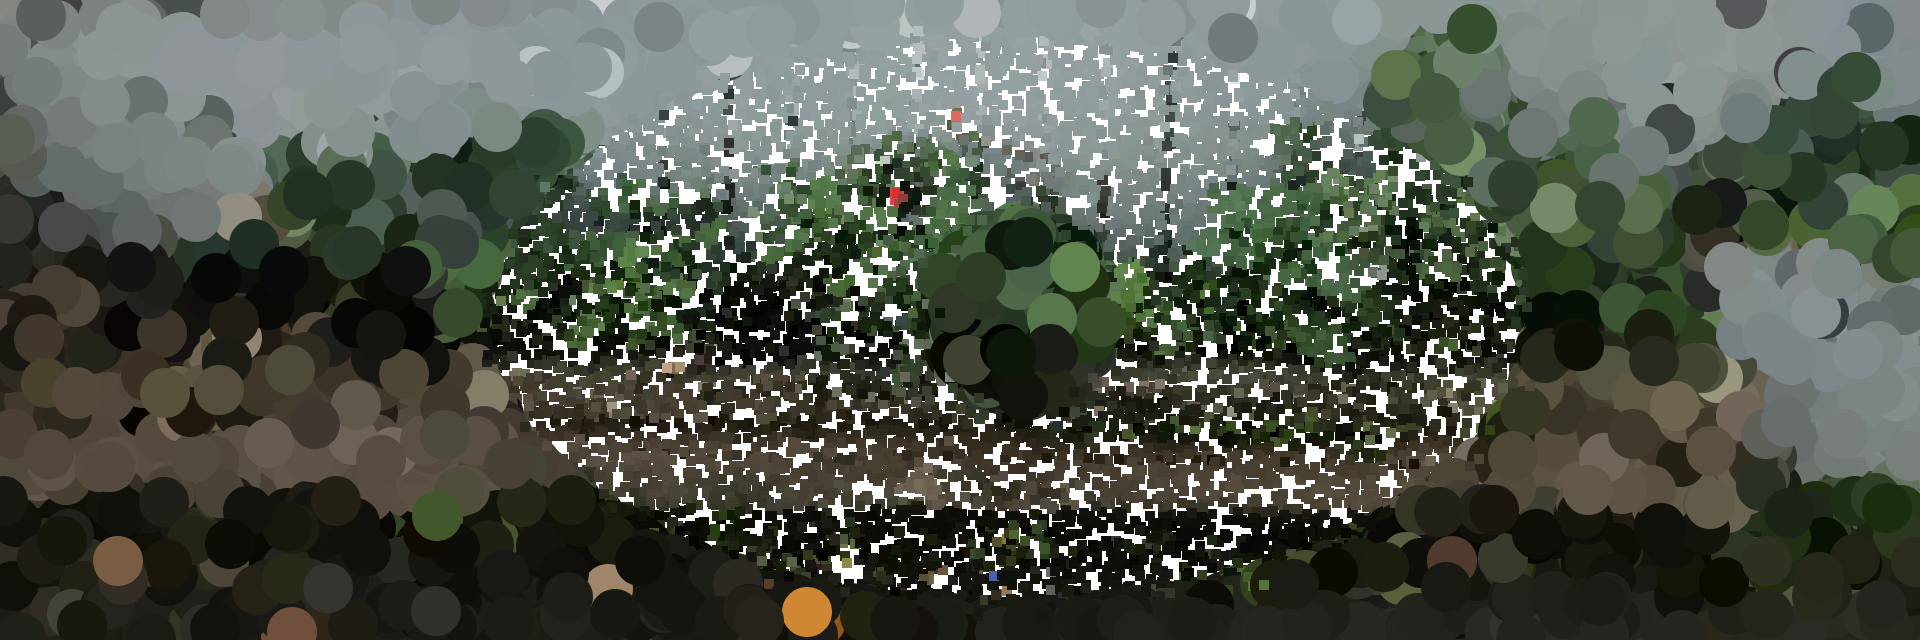
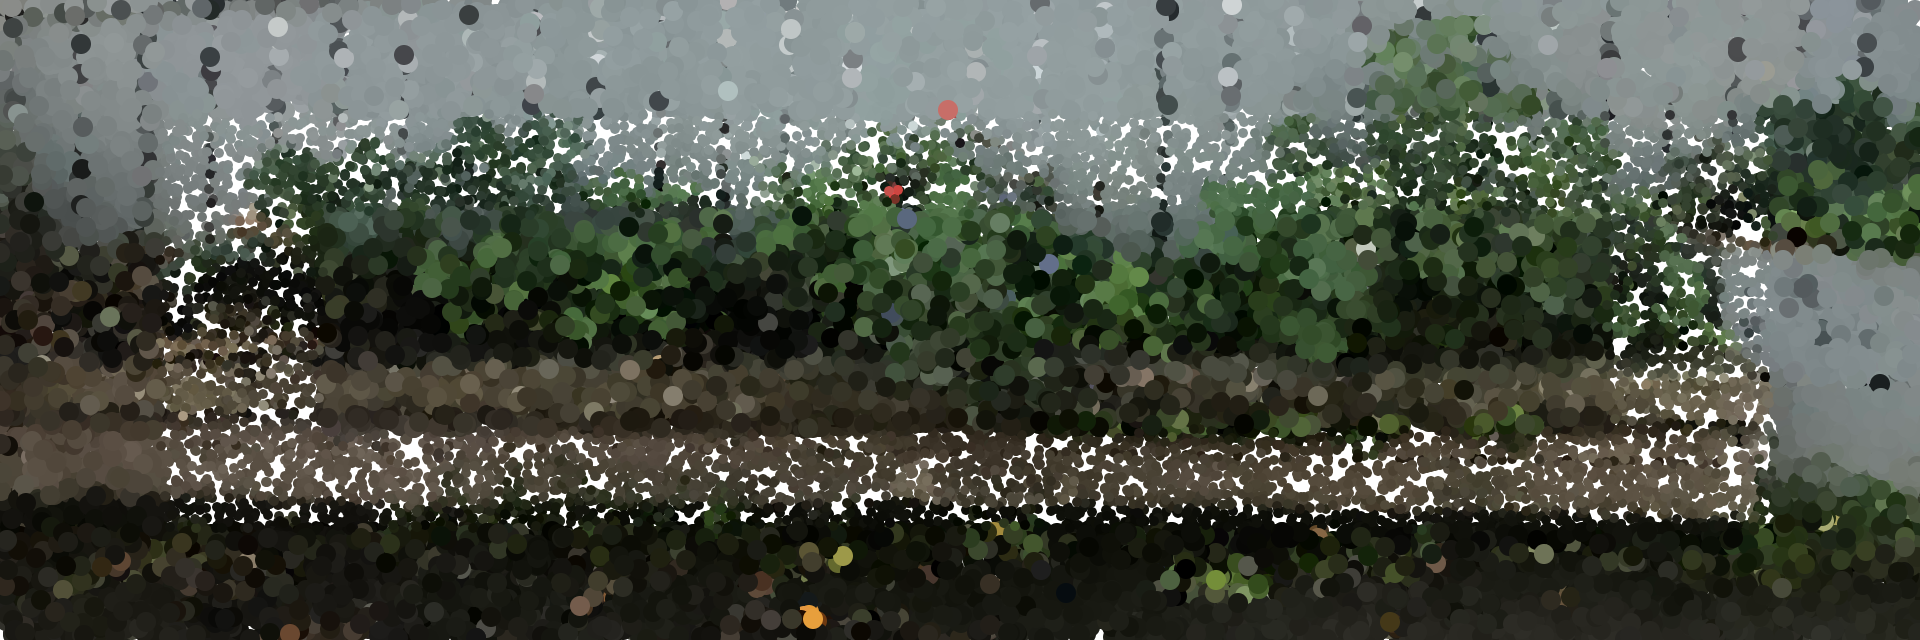
mask 3

diff --git a/sketch.js b/sketch.js
@@ -3,7 +3,7 @@ let maskImg=null;
 let renderCounter=0;
 
 // change these three lines as appropiate
-let sourceFile = "input_2.jpg";
+let sourceFile = "input_3.jpg";
 let maskFile   = "mask_2.png";
 let outputFile = "output_1.png";
 
@@ -32,24 +32,24 @@ function draw () {
     fill(pix);
     stroke(pix);
 
-    let pointSize = 50;
-    let dice = random(1,6);
-    if (dice > 5)(
-    line(x, y, x+pointSize, y)
-    )
-
-    else (
-    line(x,y,x,y+pointSize)
-    )
-    // noStroke();
-    // if(mask[0] > 128) {
-    //   let pointSize = 35;
-    //   rect(x, y, pointSize, pointSize);
-    // }
-    // else {
-    //   let pointSize = 15;
-    //   ellipse(x, y, pointSize, pointSize);
-    //}
+    // let pointSize = 50;
+    // let dice = random(1,6);
+    // if (dice > 5)(
+    // line(x, y, x+pointSize, y)
+    // )
+    //
+    // else (
+    // line(x,y,x,y+pointSize)
+    // )
+    noStroke();
+    if(mask[0] > 100) {
+      let pointSize = 20;
+      ellipse(x, y, pointSize, pointSize);
+    }
+    else {
+      let pointSize = 10;
+      ellipse(x, y, pointSize, pointSize);
+    }
   }
   renderCounter = renderCounter + 1;
   if(renderCounter > 10) {

diff --git a/README.md b/README.md
@@ -2,4 +2,4 @@
 
 The images above are photos of Wellington CBD algorithmically processed with a lightly modified version of the [p5.js Pointillism example](https://p5js.org/examples/image-pointillism.html). The masks for each photo highlight various objects. Replace this text with your own which explains the source of your photos, masking, and applied algorithm.
 
-experimenting with the cross hatch look. I like this effect on this photo because of the bright colours in the image and the way that they blend into each other but still are quite vibrant. 
+experimenting with different ellipse sizes and how they interact with the mask. 
